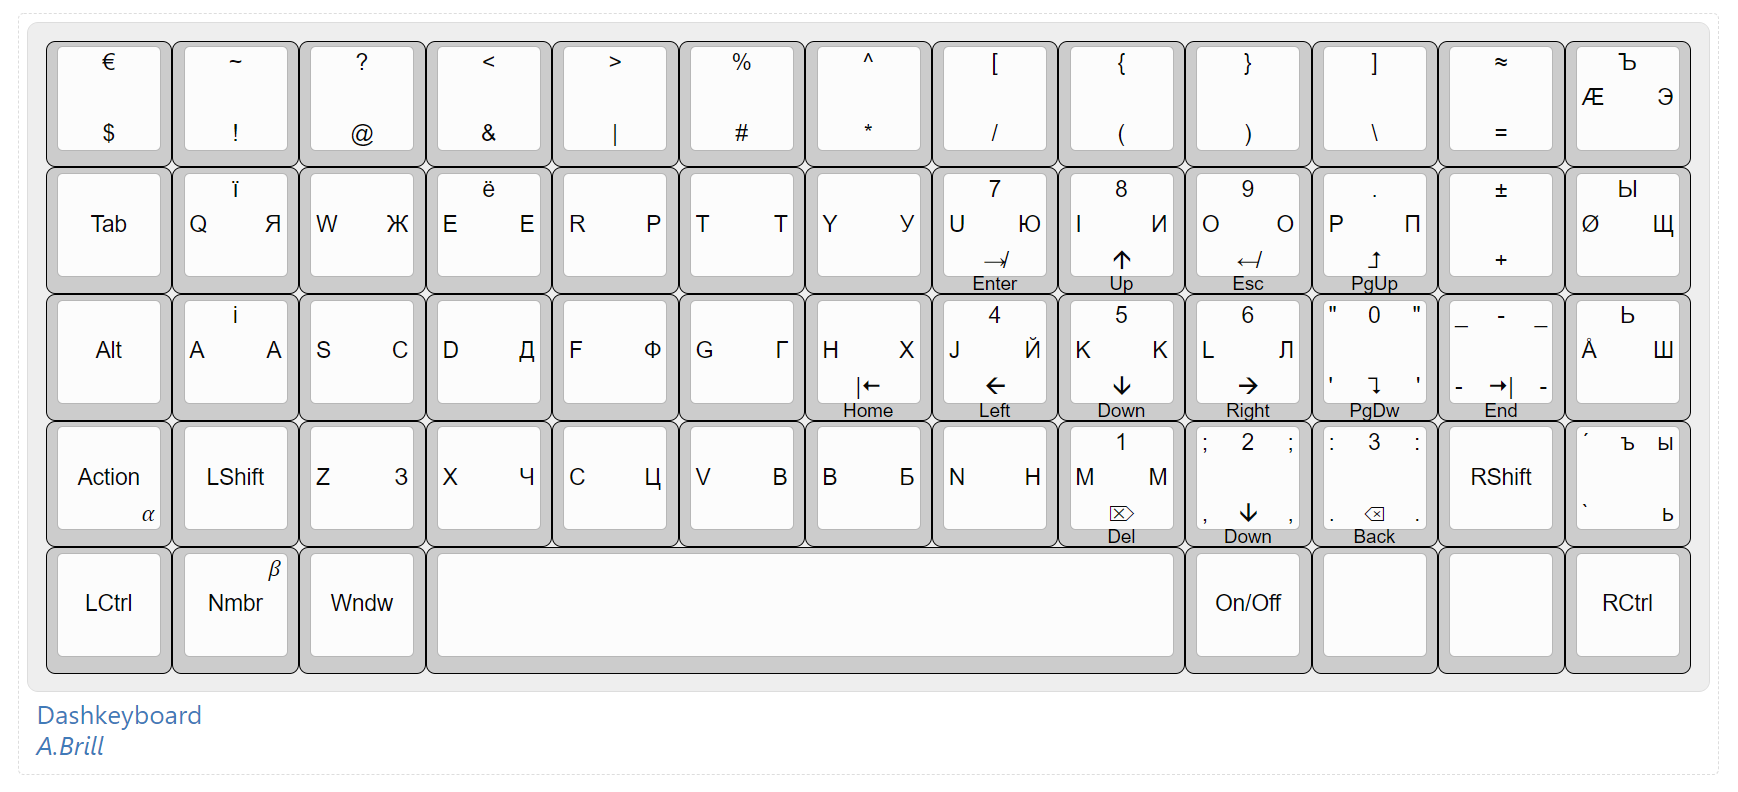
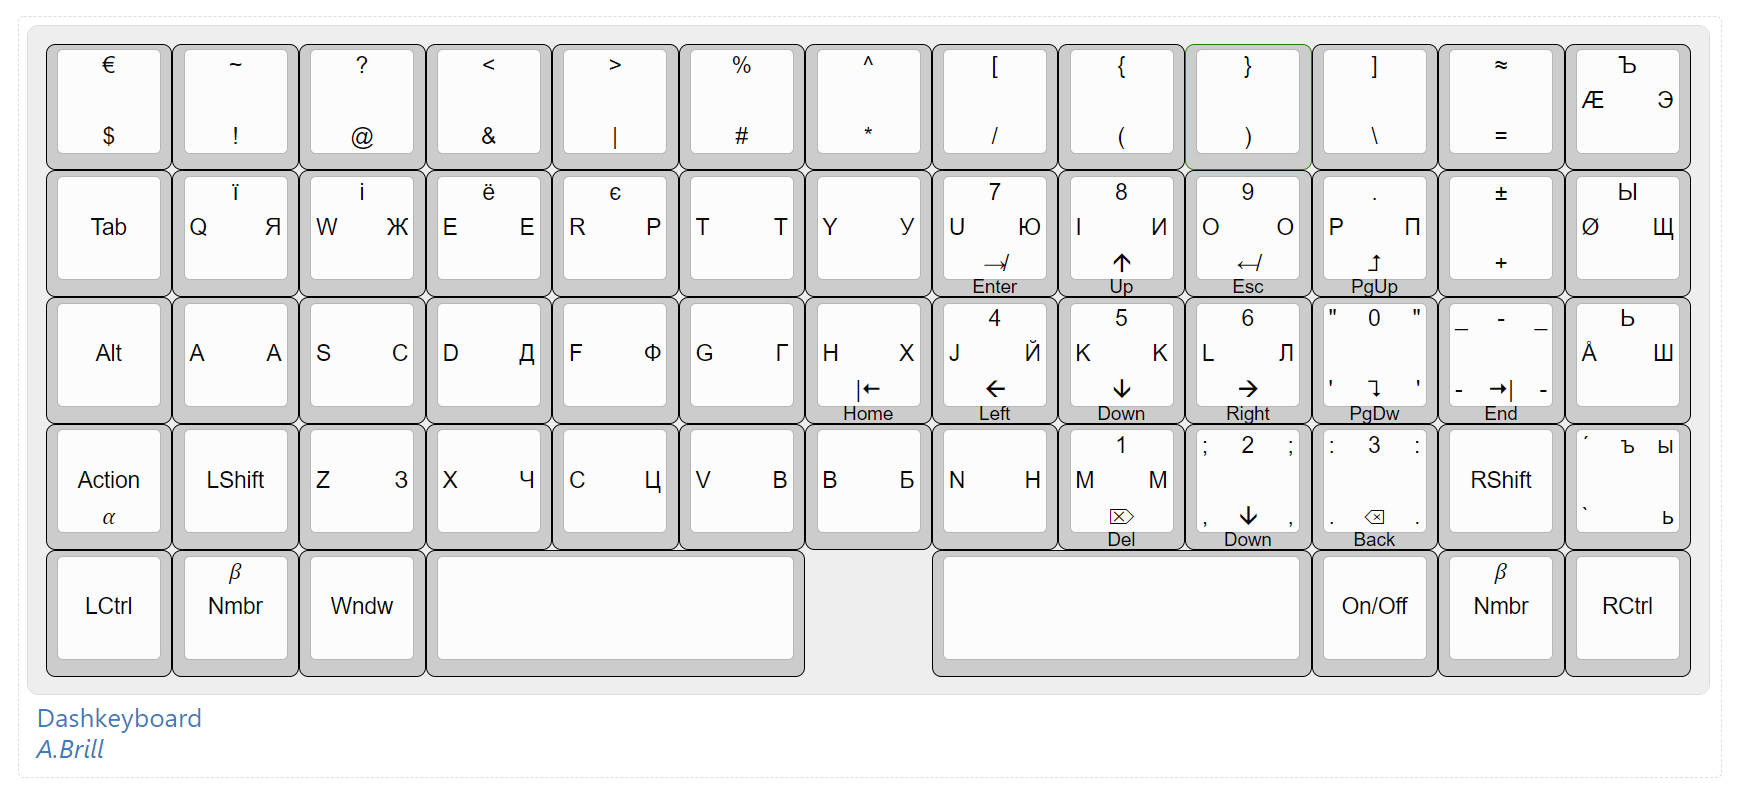
Added E-ukaine

diff --git a/Library/KeyMappings/KeyMappings.cs b/Library/KeyMappings/KeyMappings.cs
@@ -168,21 +168,17 @@ namespace KeyMapperLibrary
             );
 
 
-            void addRu(Keys key, string letter)
+            void addRu(Keys key, string letter, string betaLetter = null)
             {
                 AddRu(pure, key, letter.ToLower());
                 AddRu(pureShift, key, letter.ToUpper());
+                if (betaLetter != null) AddRu(beta, key, betaLetter);
             }
 
-            addRu(Keys.Q, "Я");
-            AddRu(beta, Keys.Q, "ї");
-
-            addRu(Keys.W, "Ж");
-            
-            addRu(Keys.E, "Е");
-            AddRu(beta, Keys.E, "ё");
-
-            addRu(Keys.R, "Р");
+            addRu(Keys.Q, "Я", "ї");
+            addRu(Keys.W, "Ж", "і");
+            addRu(Keys.E, "Е", "ё");
+            addRu(Keys.R, "Р", "є");
             addRu(Keys.T, "Т");
             addRu(Keys.Y, "У");
             
@@ -192,7 +188,6 @@ namespace KeyMapperLibrary
             addRu(Keys.P, "П");
             
             addRu(Keys.A, "А");
-            AddRu(beta, Keys.A, "і");
             addRu(Keys.S, "С");
             addRu(Keys.D, "Д");
             addRu(Keys.F, "Ф");
